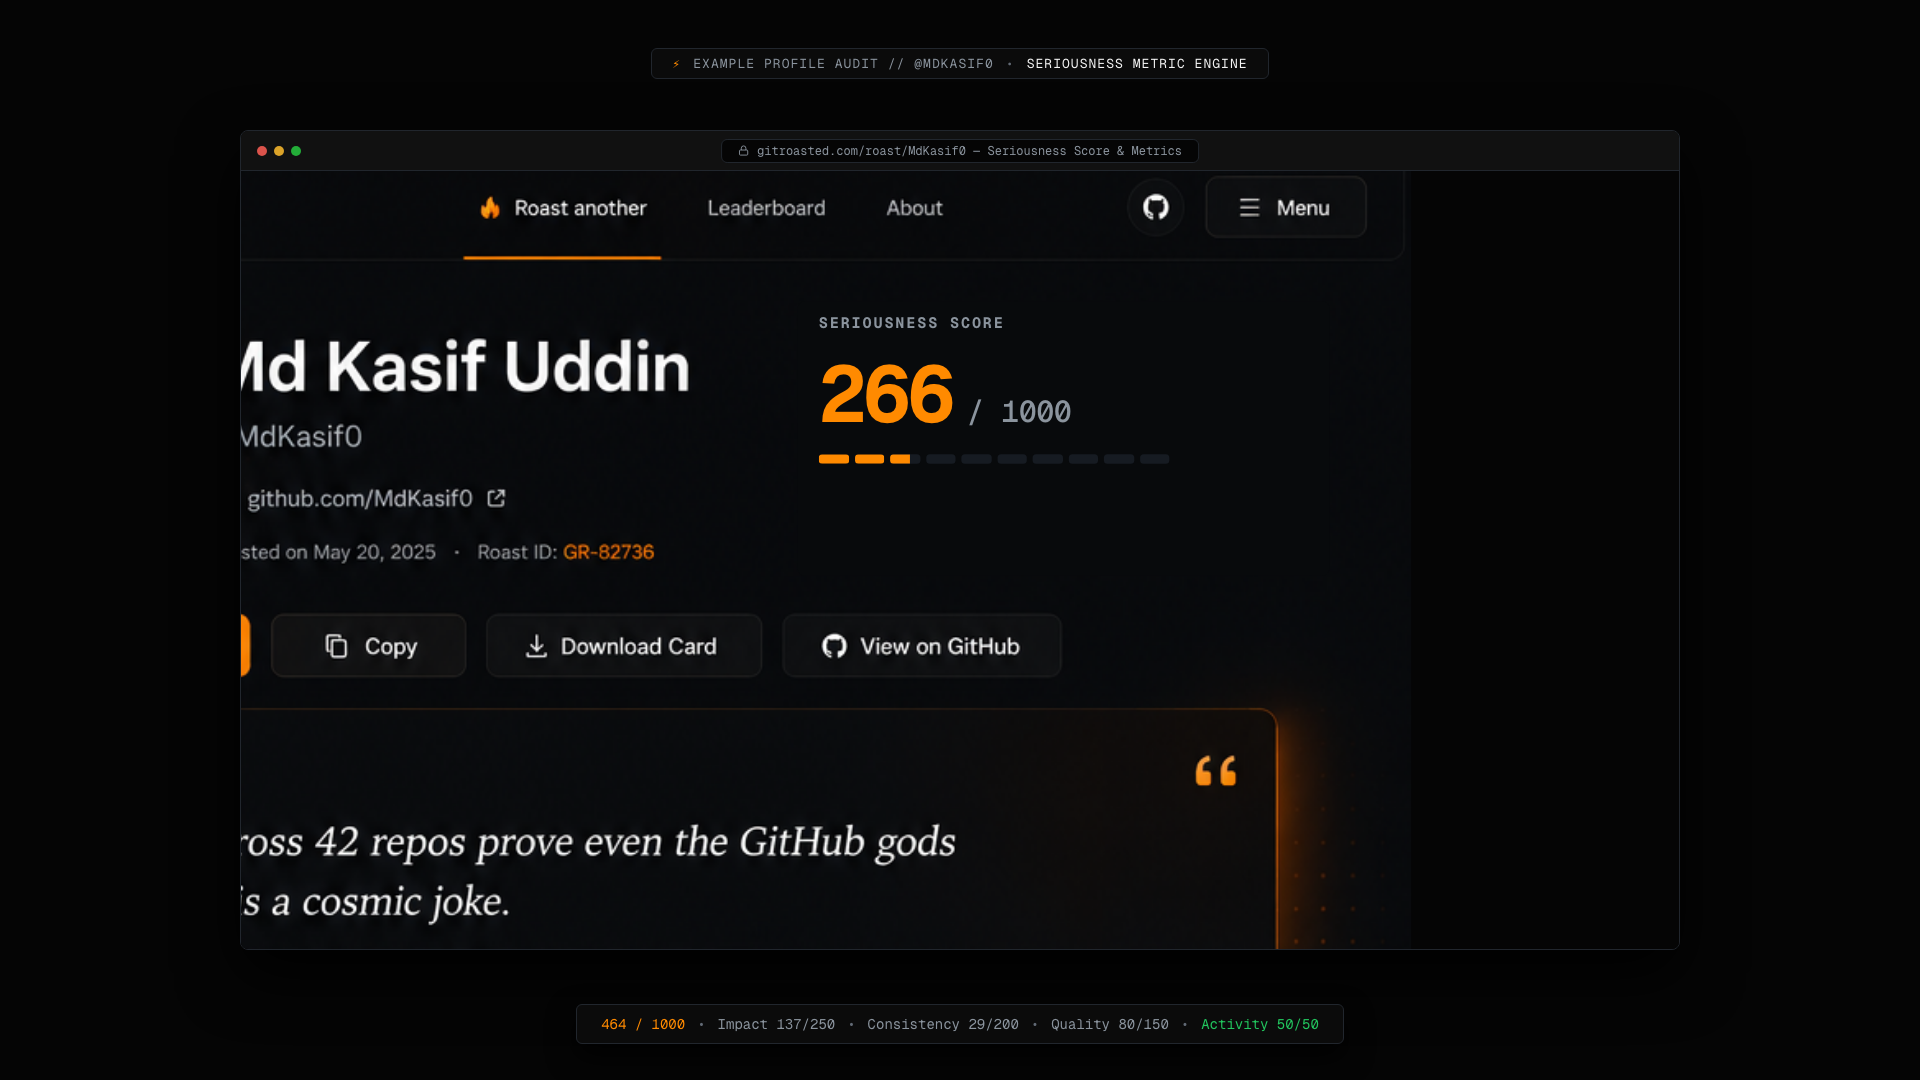
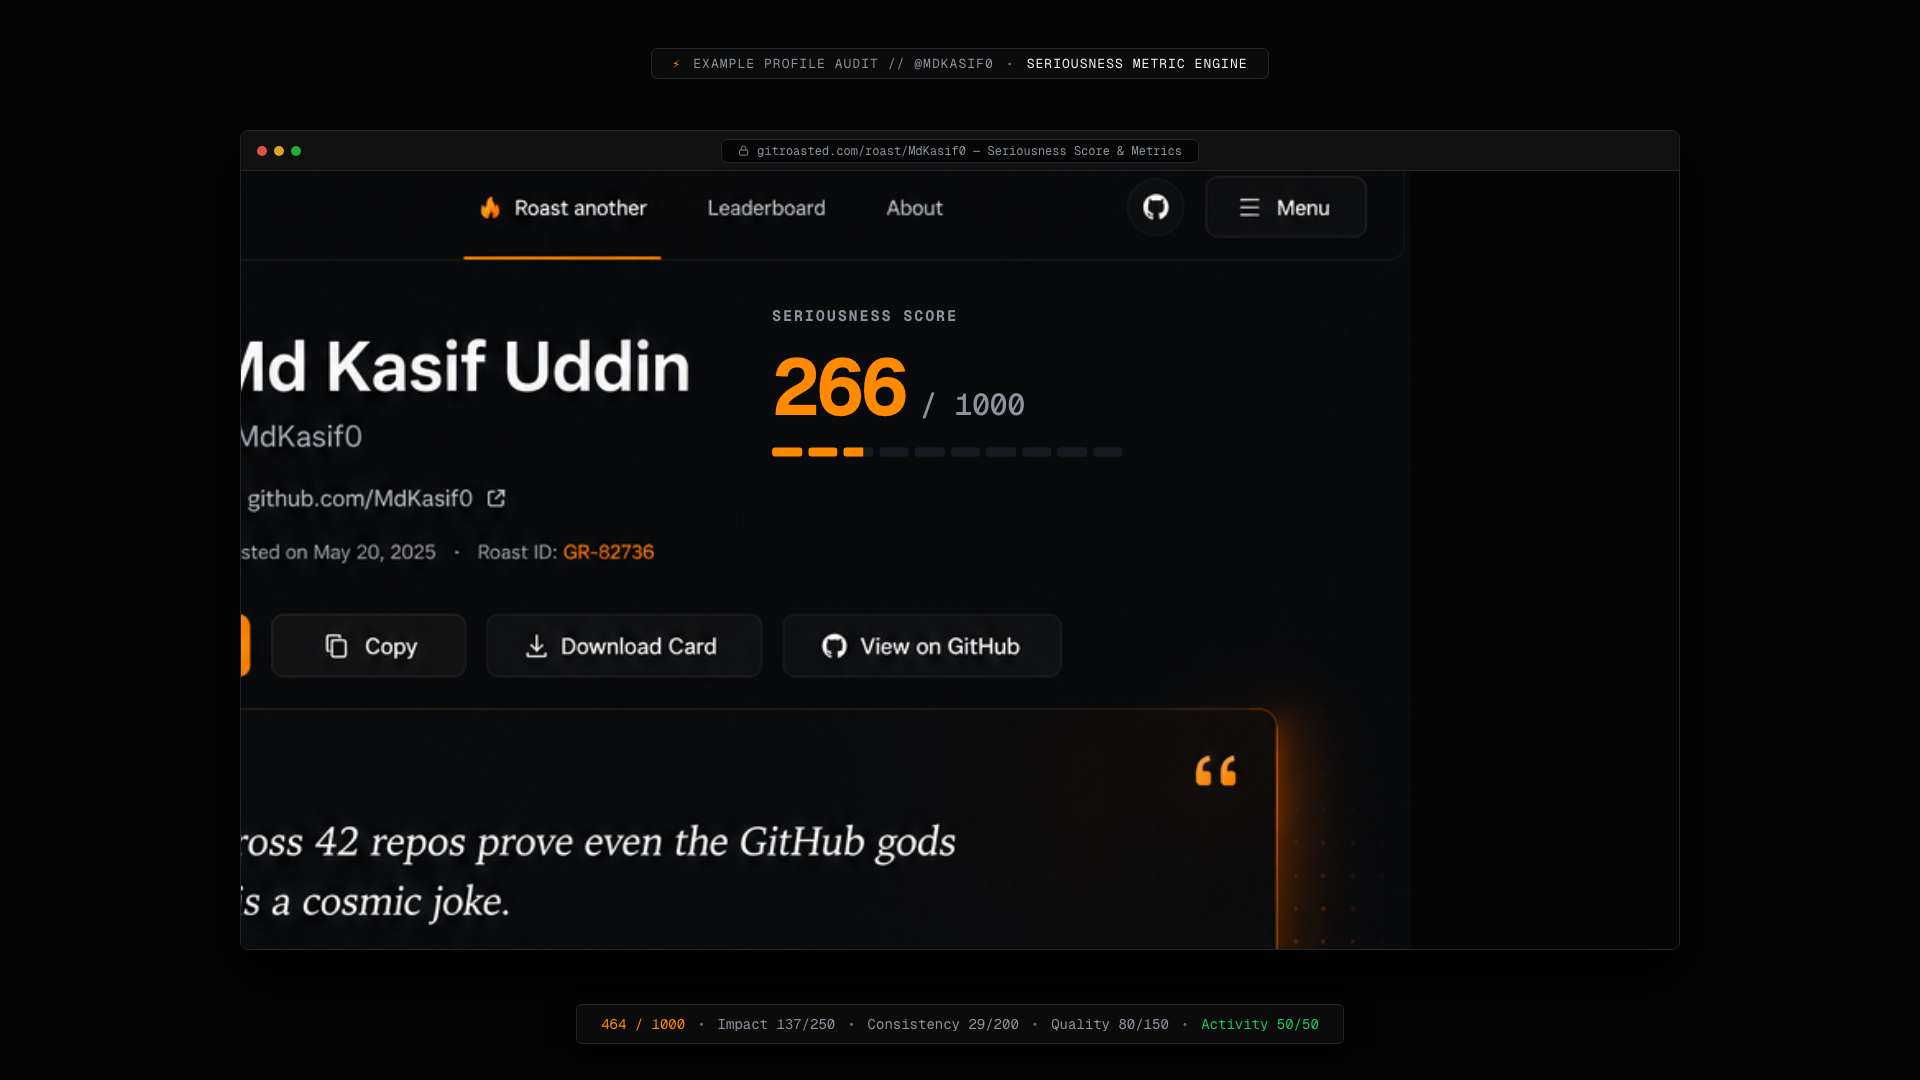
style: adjust layout positions and dimensions in Score scene

Changed region(s): [[0.4062, 0.275, 0.5625, 0.4278]]

diff --git a/src/scenes/Score.tsx b/src/scenes/Score.tsx
@@ -262,10 +262,10 @@ export const Score: React.FC = () => {
                   <div
                     style={{
                       position: 'absolute',
-                      top: 130,
-                      left: 915,
-                      width: 455,
-                      height: 235,
+                      top: 124,
+                      left: 875,
+                      width: 475,
+                      height: 245,
                       display: 'flex',
                       flexDirection: 'column',
                       alignItems: 'flex-start',
@@ -336,10 +336,10 @@ export const Score: React.FC = () => {
                   <div
                     style={{
                       position: 'absolute',
-                      top: 118,
-                      left: 900,
+                      top: 115,
+                      left: 870,
                       width: 485,
-                      height: 260,
+                      height: 265,
                       border: '1px solid rgba(255, 138, 0, 0.5)',
                       borderRadius: 8,
                       background: 'rgba(255, 138, 0, 0.03)',
